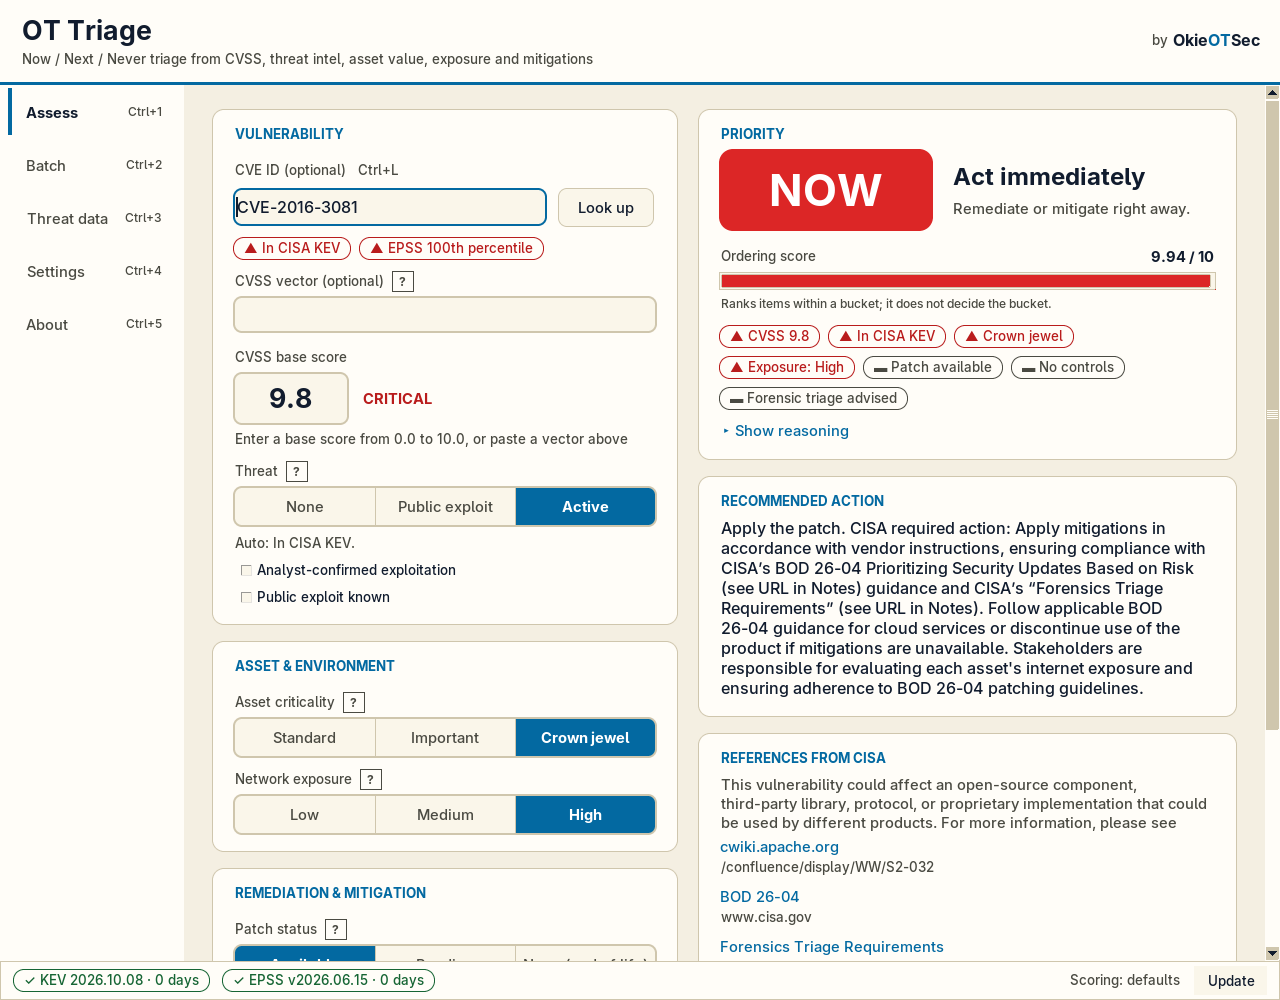
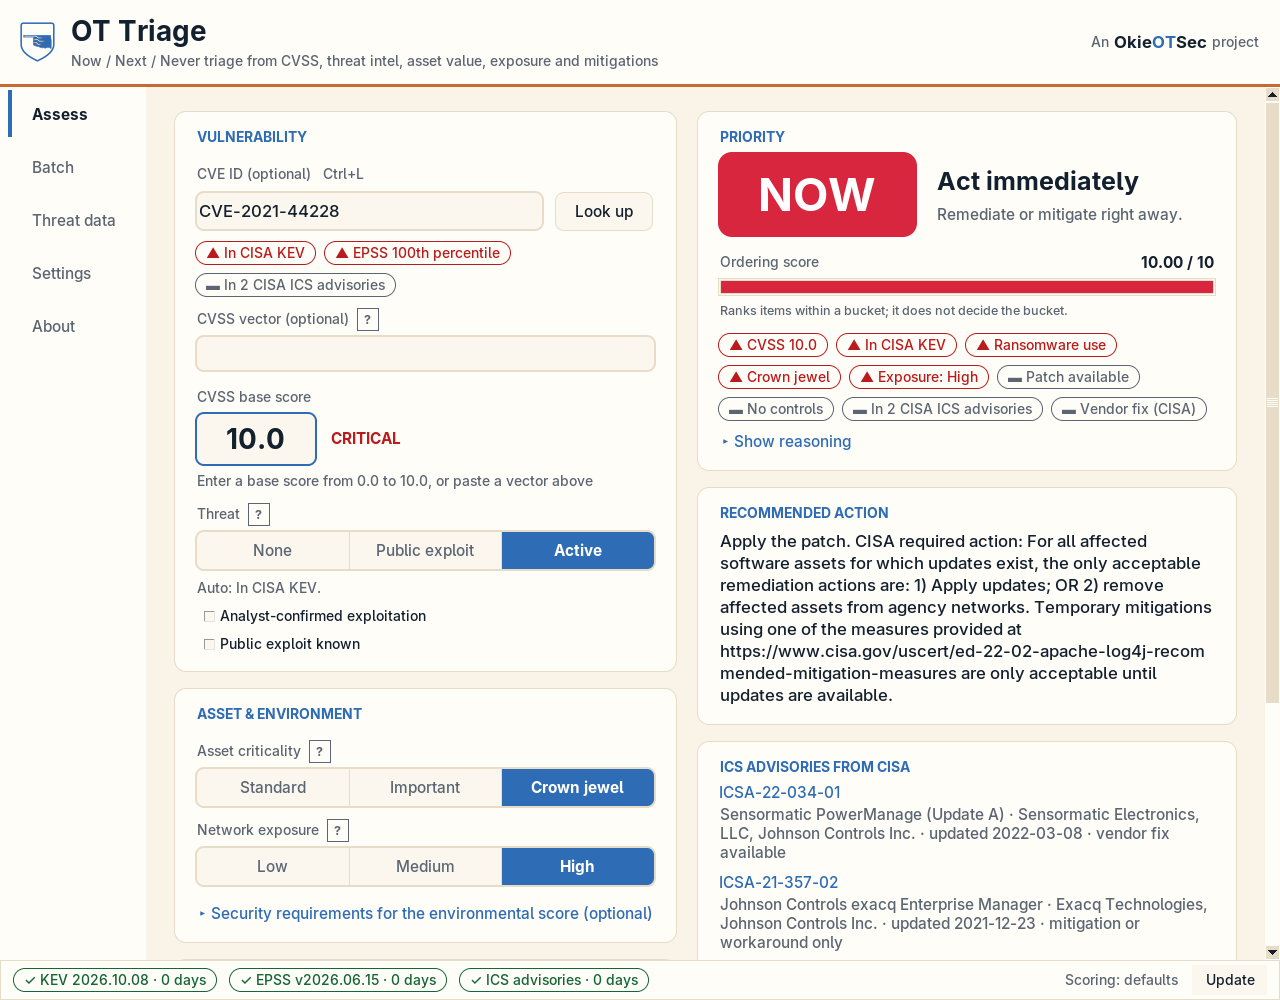
Apply the OkieOTSec brand kit v1.1 to the site
Lockup in the header (light and dark), brand colours, Space Grotesk / IBM Plex
type, favicons, web manifest and link-preview card; refreshed OT Triage
screenshots and project text (ICS advisories, By asset view, command line).

diff --git a/assets/css/style.css b/assets/css/style.css
@@ -1,73 +1,108 @@
+/* OkieOTSec brand tokens (brand guide v1.1). Light is the default; dark applies with prefers-color-scheme.
+   Risk colours carry meaning, not brand. Copper is decoration only: never body text, never status. */
 :root {
-  --bg: #0b1220;
-  --surface: #101a2c;
-  --border: #23324a;
-  --text: #eef2f7;
-  --muted: #93a4bb;
-  --accent: #38b6e8;
-  --link: #7cc8f0;
-  --on-accent: #06202e;
+  --ok-blue:     #2E6CB5;
+  --ok-navy:     #14365C;
+  --ok-sky:      #6BB0EC;
+  --ok-copper:   #C56A33;
+  --ok-copper-b: #E08A4E;
+  --ok-cream:    #FAF4E8;
+  --ok-ink:      #13202E;
+  --ok-ink-deep: #0D1520;
+
+  --bg:        var(--ok-cream);
+  --surface:   #FFFDF8;
+  --line:      #E6DCC8;
+  --text:      var(--ok-ink);
+  --muted:     #5B6672;
+  --brand:     var(--ok-blue);
+  --link:      var(--ok-blue);
+  --accent:    var(--ok-copper);
+  --btn-bg:    var(--ok-blue);
+  --btn-text:  #FFFFFF;
+  --focus:     var(--ok-blue);
+
+  --risk-now:   #D7263D;
+  --risk-next:  #E9A23B;
+  --risk-never: #6B7682;
+
+  --font-display: 'Space Grotesk', 'Segoe UI', Arial, sans-serif;
+  --font-body:    'IBM Plex Sans', 'Segoe UI', Arial, sans-serif;
+  --font-mono:    'IBM Plex Mono', Consolas, 'Courier New', monospace;
 }
-@media (prefers-color-scheme: light) {
-  :root {
-    --bg: #f4efe2;
-    --surface: #fffdf8;
-    --border: #cfc6ad;
-    --text: #111c2e;
-    --muted: #4a4a42;
-    --accent: #0369a1;
-    --link: #0369a1;
-    --on-accent: #ffffff;
+@media (prefers-color-scheme: dark) {
+  :root:not([data-theme="light"]) {
+    --bg: var(--ok-ink-deep); --surface: #141F2C; --line: #263445;
+    --text: #E8EDF2; --muted: #9AA8B6;
+    --brand: var(--ok-sky); --link: var(--ok-sky); --accent: var(--ok-copper-b);
+    --btn-bg: var(--ok-blue); --btn-text: #FFFFFF; --focus: var(--ok-sky);
+    color-scheme: dark;
   }
 }
+:root[data-theme="dark"] {
+  --bg: var(--ok-ink-deep); --surface: #141F2C; --line: #263445;
+  --text: #E8EDF2; --muted: #9AA8B6;
+  --brand: var(--ok-sky); --link: var(--ok-sky); --accent: var(--ok-copper-b);
+  --btn-bg: var(--ok-blue); --btn-text: #FFFFFF; --focus: var(--ok-sky);
+  color-scheme: dark;
+}
+
 * { box-sizing: border-box; }
 body {
   margin: 0;
   background: var(--bg);
   color: var(--text);
-  font: 17px/1.65 system-ui, -apple-system, "Segoe UI", Roboto, sans-serif;
+  font: 17px/1.65 var(--font-body);
 }
 .wrap { max-width: 860px; margin: 0 auto; padding: 0 20px; }
 a { color: var(--link); text-decoration: none; }
 a:hover { text-decoration: underline; }
-h1, h2, h3 { line-height: 1.25; }
-code { font-family: ui-monospace, Menlo, Consolas, monospace; font-size: .9em; background: var(--surface); padding: .1em .35em; border-radius: 4px; }
-pre code { display: block; padding: 1em; overflow-x: auto; border: 1px solid var(--border); }
+:focus-visible { outline: 2px solid var(--focus); outline-offset: 2px; border-radius: 3px; }
+h1, h2, h3 { line-height: 1.25; font-family: var(--font-display); }
+code { font-family: var(--font-mono); font-size: .9em; background: var(--surface); padding: .1em .35em; border-radius: 4px; }
+pre code { display: block; padding: 1em; overflow-x: auto; border: 1px solid var(--line); }
 
-.site-header { border-bottom: 1px solid var(--border); }
-.site-header .wrap { display: flex; align-items: center; justify-content: space-between; flex-wrap: wrap; gap: 8px; padding-top: 16px; padding-bottom: 16px; }
-.brand { font-weight: 800; font-size: 1.3rem; color: var(--text); letter-spacing: -.01em; }
-.brand span { color: var(--accent); }
+.site-header { border-bottom: 3px solid var(--accent); }
+.site-header .wrap { display: flex; align-items: center; justify-content: space-between; flex-wrap: wrap; gap: 8px; padding-top: 14px; padding-bottom: 14px; }
+.brand { display: inline-flex; align-items: center; }
+.brand img { height: 40px; width: auto; display: block; }
+.brand .logo-dark { display: none; }
+@media (prefers-color-scheme: dark) {
+  :root:not([data-theme="light"]) .brand .logo-light { display: none; }
+  :root:not([data-theme="light"]) .brand .logo-dark { display: block; }
+}
+:root[data-theme="dark"] .brand .logo-light { display: none; }
+:root[data-theme="dark"] .brand .logo-dark { display: block; }
 .site-header nav a { color: var(--muted); margin-left: 18px; font-size: .95rem; }
 .site-header nav a:first-child { margin-left: 0; }
 .site-header nav a:hover { color: var(--text); }
 
 main { padding: 40px 20px 60px; }
 .hero { padding: 24px 0 32px; }
-.eyebrow { color: var(--accent); text-transform: uppercase; letter-spacing: .12em; font-size: .8rem; font-weight: 700; margin: 0; }
+.eyebrow { color: var(--brand); text-transform: uppercase; letter-spacing: .12em; font-size: .8rem; font-weight: 700; margin: 0; font-family: var(--font-mono); }
 .hero h1 { font-size: clamp(2rem, 6vw, 3rem); margin: .2em 0 .4em; }
 .lede { font-size: 1.15rem; color: var(--muted); max-width: 640px; }
-.button { display: inline-block; background: var(--accent); color: var(--on-accent); font-weight: 700; padding: .6em 1.1em; border-radius: 8px; }
-.button:hover { text-decoration: none; filter: brightness(1.08); }
+.button { display: inline-block; background: var(--btn-bg); color: var(--btn-text); font-weight: 600; padding: .6em 1.1em; border-radius: 8px; }
+.button:hover { text-decoration: none; filter: brightness(1.1); }
 
 .cards { display: grid; grid-template-columns: repeat(auto-fit, minmax(220px, 1fr)); gap: 16px; margin: 16px 0 40px; }
-.card { background: var(--surface); border: 1px solid var(--border); border-radius: 10px; padding: 18px 20px; }
+.card { background: var(--surface); border: 1px solid var(--line); border-radius: 10px; padding: 18px 20px; }
 .card h2 { font-size: 1.05rem; margin: 0 0 .4em; }
 .card p { margin: 0; color: var(--muted); font-size: .95rem; }
 
 .post-list { list-style: none; padding: 0; }
-.post-list li { padding: 10px 0; border-bottom: 1px solid var(--border); }
-.meta { color: var(--muted); font-size: .9rem; margin-right: 10px; }
+.post-list li { padding: 10px 0; border-bottom: 1px solid var(--line); }
+.meta { color: var(--muted); font-size: .9rem; margin-right: 10px; font-family: var(--font-mono); }
 .post h1 { margin-top: .2em; }
 
-.site-footer { border-top: 1px solid var(--border); color: var(--muted); padding: 20px 0 40px; font-size: .95rem; }
+.site-footer { border-top: 1px solid var(--line); color: var(--muted); padding: 20px 0 40px; font-size: .95rem; }
 .site-footer .small { font-size: .85rem; }
 
-.button.secondary { background: transparent; color: var(--link); border: 1px solid var(--border); }
-.featured { background: var(--surface); border: 1px solid var(--border); border-radius: 12px; padding: 22px 24px; margin: 8px 0 40px; }
+.button.secondary { background: transparent; color: var(--link); border: 1px solid var(--line); }
+.featured { background: var(--surface); border: 1px solid var(--line); border-left: 4px solid var(--accent); border-radius: 12px; padding: 22px 24px; margin: 8px 0 40px; }
 .featured h2 { margin: .2em 0 .4em; }
 .featured p { color: var(--muted); }
-.shot { display: block; width: 100%; height: auto; border: 1px solid var(--border); border-radius: 10px; margin: 16px 0 6px; }
+.shot { display: block; width: 100%; height: auto; border: 1px solid var(--line); border-radius: 10px; margin: 16px 0 6px; }
 .shots { display: grid; grid-template-columns: repeat(auto-fit, minmax(300px, 1fr)); gap: 16px; margin: 12px 0 8px; }
 .shots figure { margin: 0; }
 .shots figcaption, .caption { color: var(--muted); font-size: .88rem; margin-top: 6px; }

diff --git a/_layouts/default.html b/_layouts/default.html
@@ -5,12 +5,27 @@
   <meta name="viewport" content="width=device-width, initial-scale=1">
   <title>{% if page.title %}{{ page.title }} | {% endif %}{{ site.title }}</title>
   <meta name="description" content="{{ page.description | default: site.description }}">
+  <link rel="preconnect" href="https://fonts.googleapis.com">
+  <link rel="preconnect" href="https://fonts.gstatic.com" crossorigin>
+  <link href="https://fonts.googleapis.com/css2?family=Space+Grotesk:wght@500;700&family=IBM+Plex+Sans:wght@400;600&family=IBM+Plex+Mono:wght@400;600&display=swap" rel="stylesheet">
   <link rel="stylesheet" href="{{ '/assets/css/style.css' | relative_url }}">
+  <link rel="icon" href="{{ '/assets/img/favicon.ico' | relative_url }}" sizes="any">
+  <link rel="icon" href="{{ '/assets/img/favicon.svg' | relative_url }}" type="image/svg+xml">
+  <link rel="apple-touch-icon" href="{{ '/assets/img/apple-touch-icon-180.png' | relative_url }}">
+  <link rel="manifest" href="{{ '/site.webmanifest' | relative_url }}">
+  <meta name="theme-color" content="#14365C">
+  <meta property="og:image" content="{{ '/assets/img/og-card-1200x630.png' | absolute_url }}">
+  <meta property="og:title" content="{{ page.title | default: site.title }}">
+  <meta property="og:description" content="{{ page.description | default: site.description }}">
+  <meta name="twitter:card" content="summary_large_image">
 </head>
 <body>
   <header class="site-header">
     <div class="wrap">
-      <a class="brand" href="{{ '/' | relative_url }}">Okie<span>OT</span>Sec</a>
+      <a class="brand" href="{{ '/' | relative_url }}">
+        <img class="logo-light" src="{{ '/assets/img/okieotsec-lockup.svg' | relative_url }}" alt="OkieOTSec" height="40">
+        <img class="logo-dark" src="{{ '/assets/img/okieotsec-lockup-dark.svg' | relative_url }}" alt="" aria-hidden="true" height="40">
+      </a>
       <nav>
         <a href="{{ '/projects/' | relative_url }}">Projects</a>
         <a href="{{ '/notes/' | relative_url }}">Lab notes</a>

diff --git a/projects.md b/projects.md
@@ -22,15 +22,22 @@ You give it a CVSS score or a full CVSS vector, optionally a CVE, and what you k
 <ul class="facts">
   <li><strong>Threat intelligence built in.</strong> Looks a CVE up in CISA's Known Exploited Vulnerabilities catalog and in EPSS. It shows CISA's required action, its reference links (only plain HTTPS links are clickable, and you always see the real domain), and the forensic-triage flag.</li>
   <li><strong>CVSS vectors.</strong> Paste a CVSS 3.0, 3.1 or 4.0 vector and the score is filled in. Every possible base vector was checked against FIRST's official calculators.</li>
-  <li><strong>Batch mode.</strong> Load a CSV of findings, filter by bucket, search, sort and export the ranked results.</li>
-  <li><strong>Offline first.</strong> The only network access is a threat-data update that you start yourself, over HTTPS, to two public sources. Nothing about your assets or findings ever leaves the machine.</li>
+  <li><strong>CISA ICS advisories.</strong> Shows which of CISA's published ICS advisories name a CVE, with a link to each one and what it says about a fix: a vendor fix, a mitigation only, or nothing yet. This is context: it never changes the answer.</li>
+  <li><strong>Batch mode.</strong> Load a CSV of findings, filter by bucket, search, sort and export the ranked results. An asset inventory fills in criticality, exposure and controls, and an earlier export shows what is new, what moved and what was resolved.</li>
+  <li><strong>By asset.</strong> OT assets get patched in short outage windows, so one view groups the findings by asset: the worst bucket on each, and what could be handled on one visit. With a vendor and product in the inventory it also points at the advisories that may apply.</li>
+  <li><strong>Command line.</strong> The same ranking from a script or a scheduled job, with an exit code you can gate on.</li>
+  <li><strong>Offline first.</strong> The only network access is a threat-data update that you start yourself, over HTTPS, to three public sources: CISA's KEV catalog, EPSS and CISA's advisory repository. Nothing about your assets or findings ever leaves the machine.</li>
   <li><strong>Explainable rules.</strong> The decisions behind the rules, and the reasons for each, are written down in the project's policy document, and the scoring thresholds are adjustable.</li>
 </ul>
 
 <div class="shots">
   <figure>
-    <img class="shot" src="{{ '/assets/img/ot-triage/batch-dark.png' | relative_url }}" alt="The Batch view ranking six findings, with the selected row's reasons and CISA references">
+    <img class="shot" src="{{ '/assets/img/ot-triage/batch-dark.png' | relative_url }}" alt="The Batch view ranking fifteen findings, with the selected row's reasons, CISA references and the ICS advisories that name its CVE">
     <figcaption>Batch: rank a whole spreadsheet and see the references behind each row.</figcaption>
+  </figure>
+  <figure>
+    <img class="shot" src="{{ '/assets/img/ot-triage/batch-assets-dark.png' | relative_url }}" alt="The Batch view grouped by asset: the worst bucket on each asset and what could be handled on one outage window">
+    <figcaption>By asset: the worst thing on each asset, and what to handle on one visit.</figcaption>
   </figure>
   <figure>
     <img class="shot" src="{{ '/assets/img/ot-triage/assess-light.png' | relative_url }}" alt="The Assess view in the light theme">
